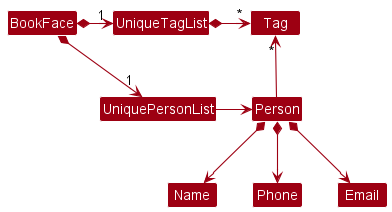
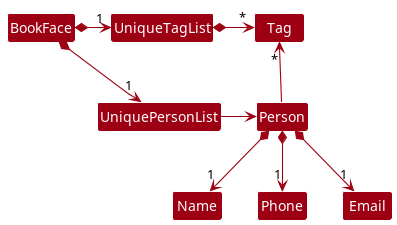
Update diagrams for Model and Logic

diff --git a/docs/DeveloperGuide.md b/docs/DeveloperGuide.md
@@ -196,7 +196,7 @@ Here are the other classes in `Logic` (omitted from the class diagram above) tha
 <img src="images/ParserClasses.png" width="600"/>
 
 How the parsing works:
-* When called upon to parse a user command, the `PrimaryParser` class creates an `XYZCommandParser` (`XYZ` is a placeholder for the specific command name e.g., `AddUserCommandParser`) which uses the other classes shown above to parse the user command and create a `XYZCommand` object (e.g., `AddCommand`) which the `PrimaryParser` returns back as a `Command` object.
+* When called upon to parse a user command, the `PrimaryParser` class creates an `XYZCommandParser` (`XYZ` is a placeholder for the specific command name e.g., `AddUserCommandParser`) which uses the other classes shown above to parse the user command and create a `XYZCommand` object (e.g., `AddUserCommand`) which the `PrimaryParser` returns back as a `Command` object.
 * Commands can be decomposed into subcommands. For example, to parse `delete user 1`, `PrimaryParser` calls `DeleteCommandParser`. `DeleteCommandParser` then parses `user 1` and returns a `DeleteUserCommand`.
 * All `XYZCommandParser` classes (e.g., `AddUserommandParser`, `DeleteUserCommandParser`, ...) inherit from the `Parser` interface so that they can be treated similarly where possible e.g, during testing.
 
@@ -211,6 +211,7 @@ The `Model` component,
 * stores BookFace data i.e., all `Person` objects and all `Book` objects (which are contained in a `UniquePersonList` object and a `BookList` object respectively).
 * stores the currently 'selected' `Person` and `Book` objects (e.g., results of a search query) as a separate _filtered_ list which is exposed to outsiders as an unmodifiable `ObservableList<Person>` or `ObservableList<Book>` that can be 'observed' e.g. the UI can be bound to this list so that the UI automatically updates when the data in the list change.
 * stores a `UserPref` object that represents the user’s preferences. This is exposed to the outside as a `ReadOnlyUserPref` objects.
+* has a bidirectional association between a `Book` and a `Person`, where a `Book` can only have 0 or 1 loanee `Person`, but a Person can loan 0 or more multiple `Books`
 * does not depend on any of the other three components (as the `Model` represents data entities of the domain, they should make sense on their own without depending on other components)
 
 <div markdown="span" class="alert alert-info">:information_source: **Note:** An alternative (arguably, a more OOP) model is given below. It has a `Tag` list in the `BookFace`, which `Person` references. This allows `BookFace` to only require one `Tag` object per unique tag, instead of each `Person` needing their own `Tag` objects.<br>

diff --git a/docs/Testing.md b/docs/Testing.md
@@ -29,7 +29,7 @@ There are two ways to run tests.
 This project has three types of tests:
 
 1. *Unit tests* targeting the lowest level methods/classes.<br>
-   e.g. `seedu.address.commons.StringUtilTest`
+   e.g. `bookface.commons.util.StringUtilTest`
 1. *Integration tests* that are checking the integration of multiple code units (those code units are assumed to be working).<br>
    e.g. `storage.bookface.StorageManagerTest`
 1. Hybrids of unit and integration tests. These test are checking multiple code units as well as how the are connected together.<br>
